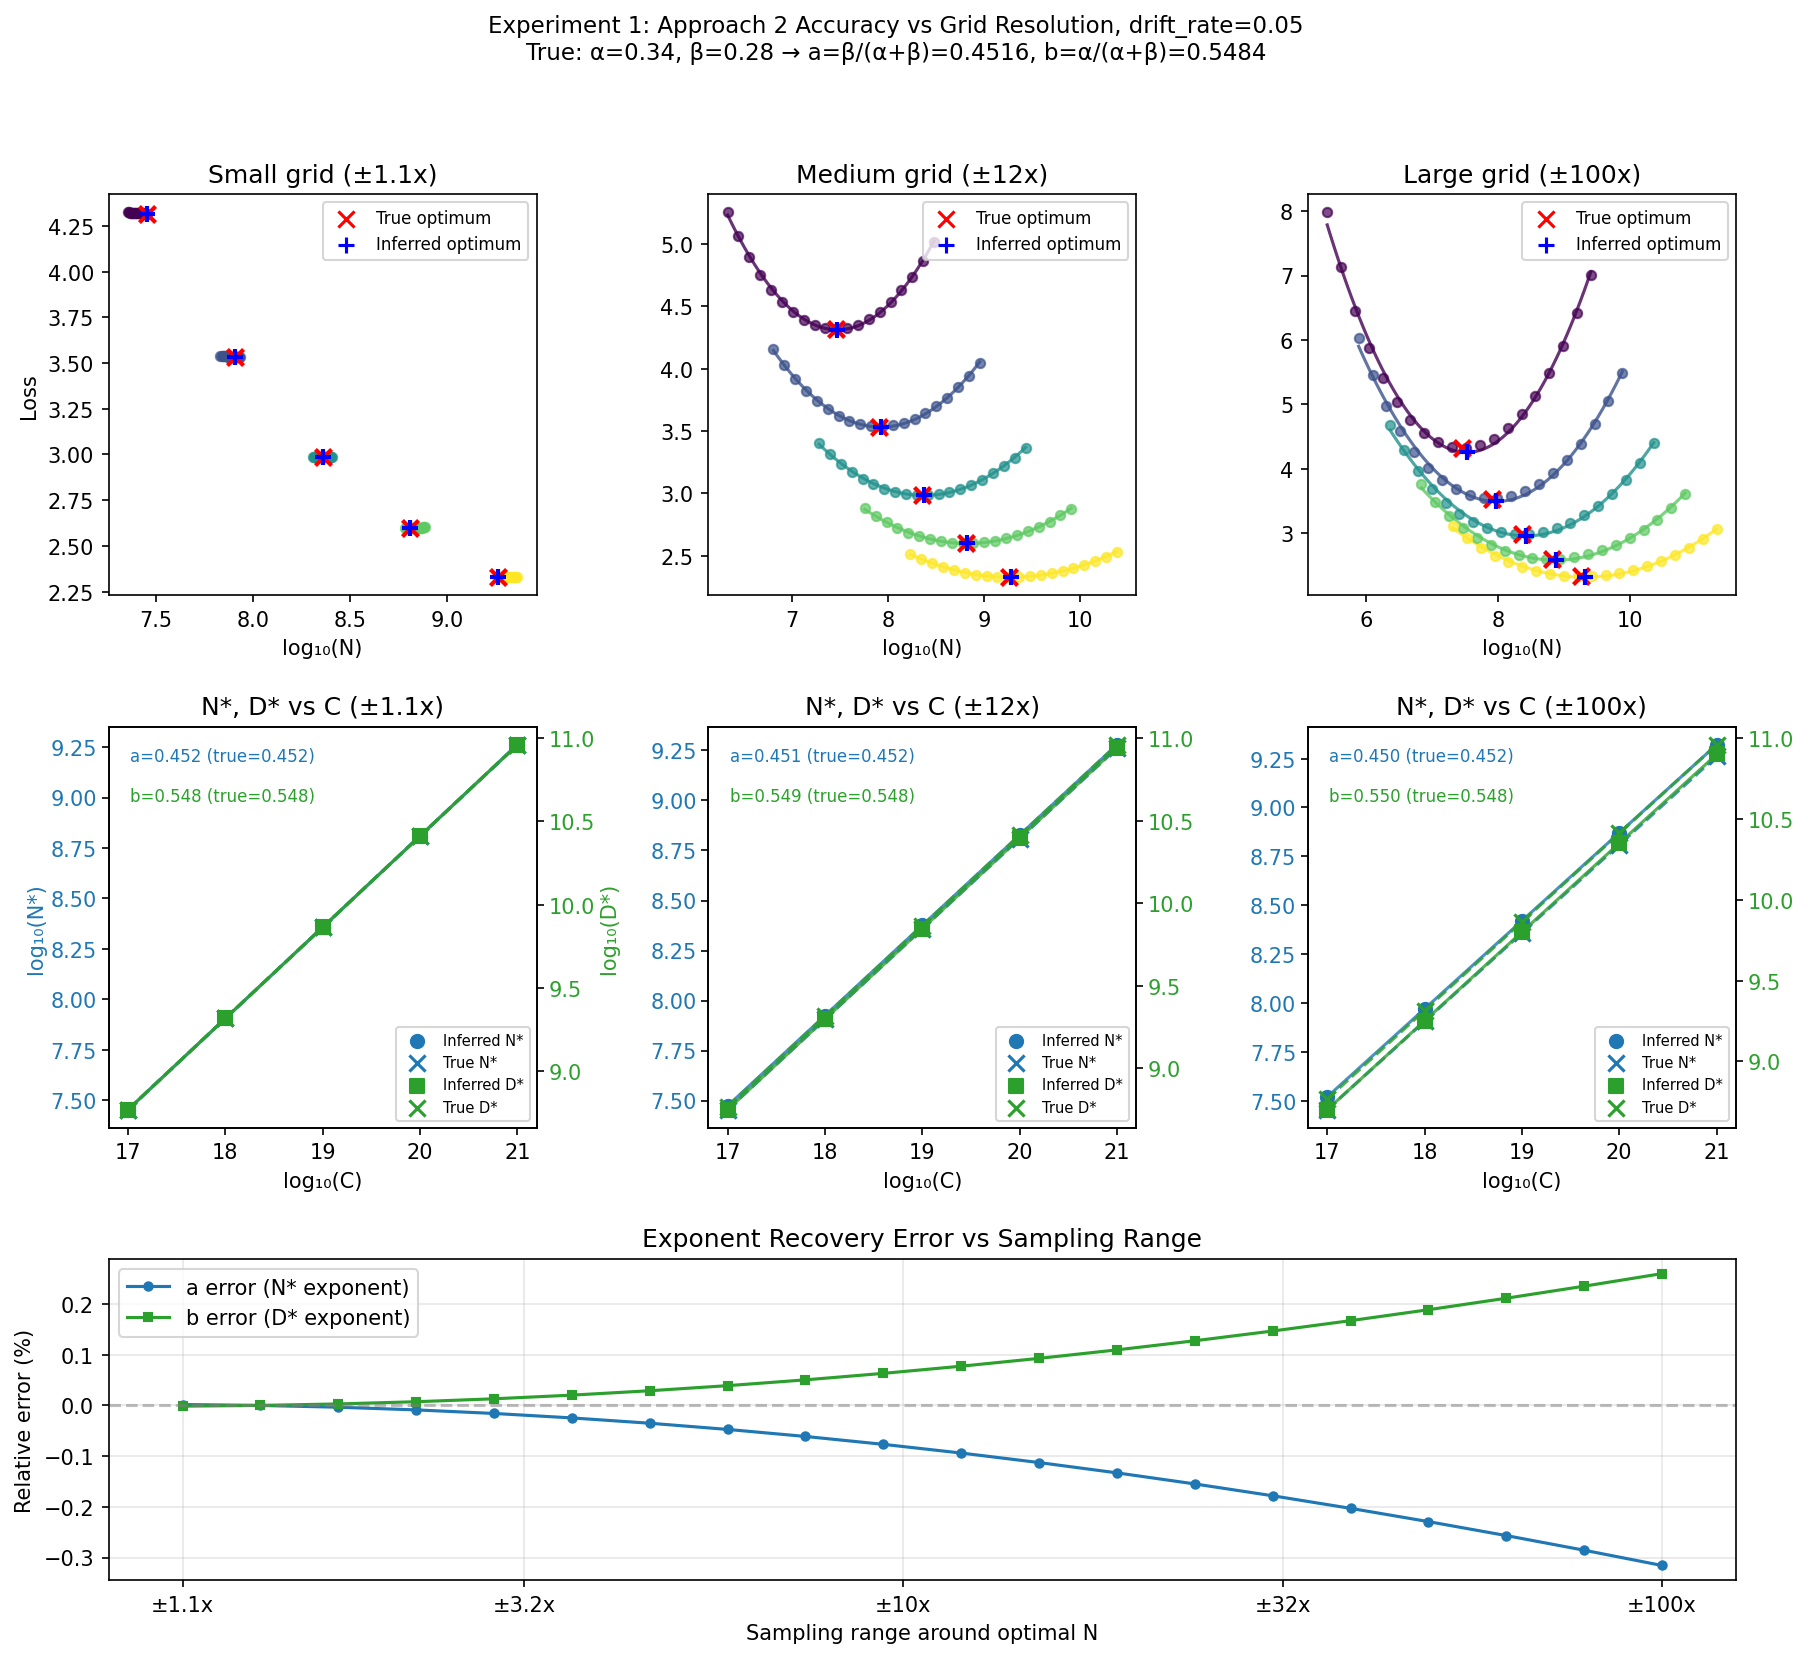
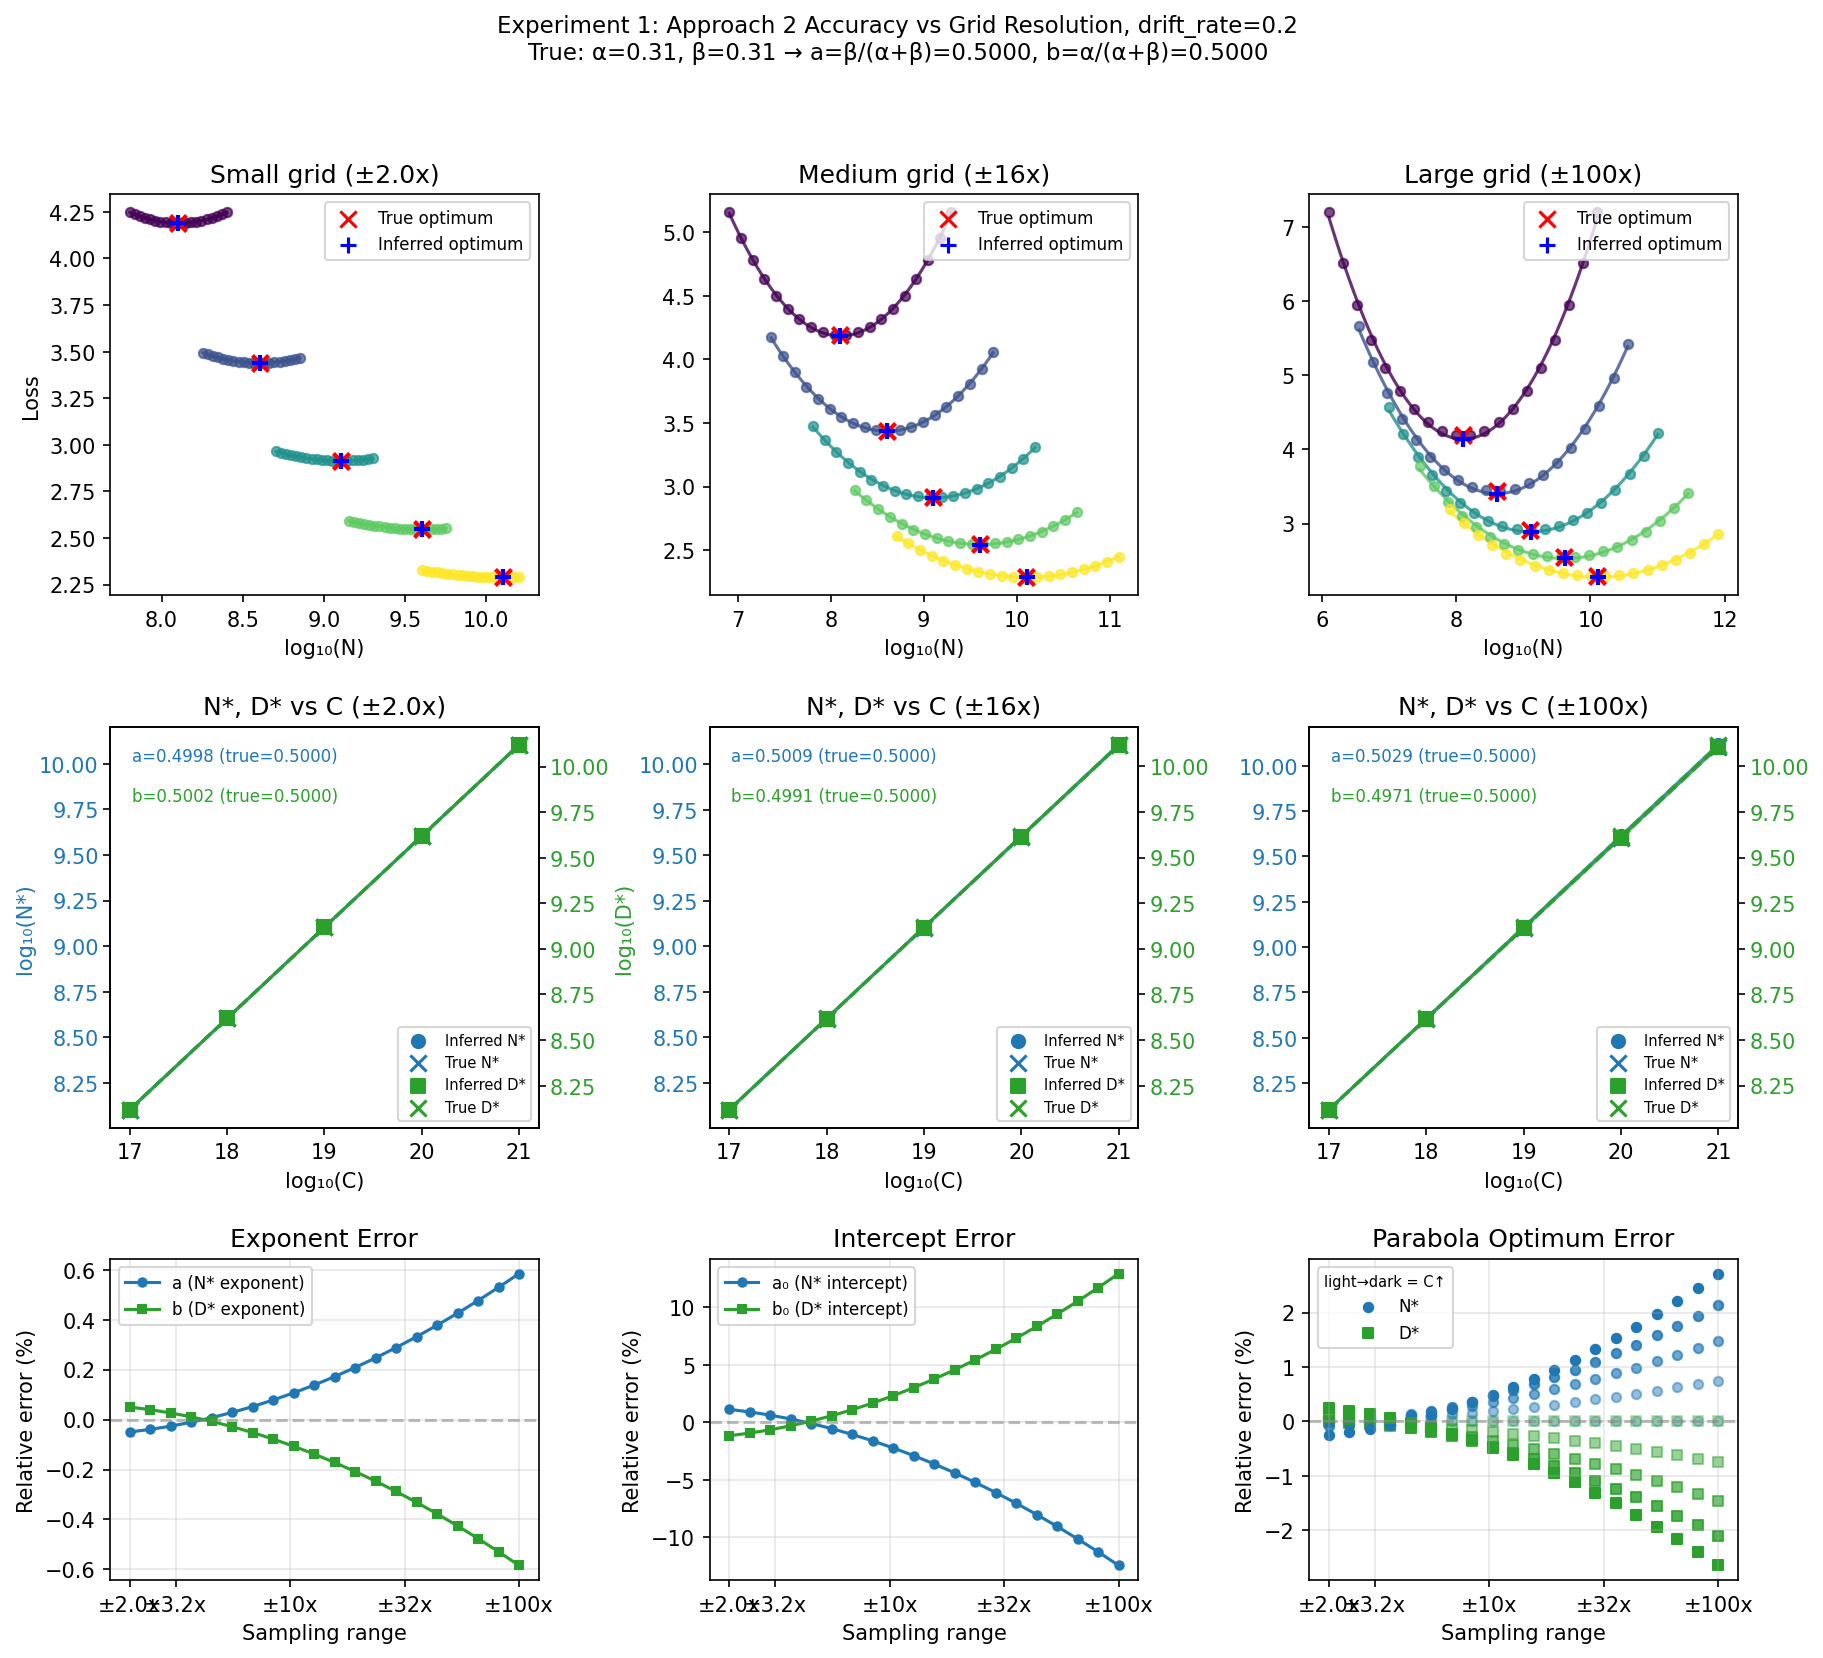
feat(exp1): expand error analysis to three-panel visualization
Update Experiment 1's error analysis row to show three subplots:
- Exponent error: relative error in recovered a and b
- Intercept error: relative error in power-law intercepts a₀ and b₀
- Optimum error: per-budget relative error in parabola-inferred N* and D*

This provides more detailed insight into where Approach 2 fitting
errors arise - whether in scaling exponents, intercepts, or individual
parabola vertex locations.

diff --git a/src/scaling_law_analysis/experiments/exp1_empirical_error.py b/src/scaling_law_analysis/experiments/exp1_empirical_error.py
@@ -13,6 +13,7 @@ from pathlib import Path
 
 from scaling_law_analysis import config
 from scaling_law_analysis.chinchilla import (
+    Approach2Result,
     compute_center_offset,
     isoflop_sample,
     fit_approach2,
@@ -31,6 +32,23 @@ def log_range_to_label(log_range: float) -> str:
     else:
         return f"±{factor:.1f}x"
 
+def compute_true_intercepts(loss) -> tuple[float, float]:
+    """Compute true power-law intercepts for N* and D* vs C.
+    
+    The true power laws are:
+        N* = G · (C/6)^a  →  log10(N*) = a·log10(C) + (log10(G) - a·log10(6))
+        D* = (1/G) · (C/6)^b  →  log10(D*) = b·log10(C) + (-log10(G) - b·log10(6))
+    
+    Returns:
+        Tuple of (true_a_intercept, true_b_intercept) in log10 space
+    """
+    log_G = np.log10(loss.G)
+    log_6 = np.log10(6)
+    true_a_intercept = log_G - loss.a * log_6
+    true_b_intercept = -log_G - loss.b * log_6
+    return true_a_intercept, true_b_intercept
+
+
 def run_experiment(
     sim_config: SimulationConfig,
     compute_budgets: np.ndarray,
@@ -46,12 +64,23 @@ def run_experiment(
         n_points: Number of points per IsoFLOP curve
 
     Returns:
-        Dictionary with results for a and b exponents
+        Dictionary with results for a and b exponents, intercepts, and per-budget optima
     """
     loss = sim_config.loss
     a_recovered = []
     b_recovered = []
+    a_intercept_recovered = []
+    b_intercept_recovered = []
     results = []
+    
+    # Per-budget optimum errors: shape (n_log_ranges, n_budgets)
+    N_opt_errors = []
+    D_opt_errors = []
+
+    # Compute true values
+    true_N_opts = np.array([loss.N_opt(C) for C in compute_budgets])
+    true_D_opts = np.array([loss.D_opt(C) for C in compute_budgets])
+    true_a_intercept, true_b_intercept = compute_true_intercepts(loss)
 
     for log_range in log_ranges:
         result = fit_approach2(
@@ -64,27 +93,49 @@ def run_experiment(
         )
         a_recovered.append(result.a)
         b_recovered.append(result.b)
+        a_intercept_recovered.append(result.a_intercept)
+        b_intercept_recovered.append(result.b_intercept)
         results.append(result)
+        
+        # Per-budget relative errors in N* and D*
+        N_opt_errors.append((result.N_opts - true_N_opts) / true_N_opts)
+        D_opt_errors.append((result.D_opts - true_D_opts) / true_D_opts)
 
     a_recovered = np.array(a_recovered)
     b_recovered = np.array(b_recovered)
+    a_intercept_recovered = np.array(a_intercept_recovered)
+    b_intercept_recovered = np.array(b_intercept_recovered)
+    N_opt_errors = np.array(N_opt_errors)  # shape: (n_log_ranges, n_budgets)
+    D_opt_errors = np.array(D_opt_errors)
 
     return {
         "config": sim_config,
+        "compute_budgets": compute_budgets,
         "log_ranges": log_ranges,
+        # Exponents
         "true_a": loss.a,
         "true_b": loss.b,
         "a_recovered": a_recovered,
         "b_recovered": b_recovered,
         "a_error": (a_recovered - loss.a) / loss.a,
         "b_error": (b_recovered - loss.b) / loss.b,
+        # Intercepts
+        "true_a_intercept": true_a_intercept,
+        "true_b_intercept": true_b_intercept,
+        "a_intercept_recovered": a_intercept_recovered,
+        "b_intercept_recovered": b_intercept_recovered,
+        "a_intercept_error": (a_intercept_recovered - true_a_intercept) / abs(true_a_intercept),
+        "b_intercept_error": (b_intercept_recovered - true_b_intercept) / abs(true_b_intercept),
+        # Per-budget optimum errors
+        "N_opt_errors": N_opt_errors,
+        "D_opt_errors": D_opt_errors,
         "results": results,
     }
 
 
 def plot_isoflop_fits(
     ax: plt.Axes,
-    result,
+    result: Approach2Result,
     compute_budgets: np.ndarray,
     log_range: float,
     sim_config: SimulationConfig,
@@ -168,7 +219,7 @@ def plot_isoflop_fits(
 
 def plot_power_law_fits(
     ax: plt.Axes,
-    result,
+    result: Approach2Result,
     compute_budgets: np.ndarray,
     sim_config: SimulationConfig,
     title: str = "",
@@ -262,11 +313,11 @@ def plot_power_law_fits(
     ax.legend(lines1 + lines2, labels1 + labels2, loc="lower right", fontsize=7)
 
 
-def plot_error_vs_grid_size(
+def plot_exponent_error(
     ax: plt.Axes,
     experiment_results: dict,
 ):
-    """Plot exponent recovery error vs grid step size.
+    """Plot exponent recovery error vs sampling range.
 
     Args:
         ax: Matplotlib axes to plot on
@@ -276,15 +327,14 @@ def plot_error_vs_grid_size(
     a_error = experiment_results["a_error"] * 100  # Convert to %
     b_error = experiment_results["b_error"] * 100
 
-    ax.plot(log_ranges, a_error, "o-", label="a error (N* exponent)", color="C0", markersize=4)
-    ax.plot(log_ranges, b_error, "s-", label="b error (D* exponent)", color="C2", markersize=4)
+    ax.plot(log_ranges, a_error, "o-", label="a (N* exponent)", color="C0", markersize=4)
+    ax.plot(log_ranges, b_error, "s-", label="b (D* exponent)", color="C2", markersize=4)
 
     ax.axhline(0, color="gray", linestyle="--", alpha=0.5)
     
-    # Primary x-axis: log_range values
-    ax.set_xlabel("Sampling range around optimal N")
+    ax.set_xlabel("Sampling range")
     ax.set_ylabel("Relative error (%)")
-    ax.set_title("Exponent Recovery Error vs Sampling Range")
+    ax.set_title("Exponent Error")
     
     # Add secondary x-axis labels showing intuitive range
     tick_positions = [0.3, 0.5, 1.0, 1.5, 2.0]
@@ -292,7 +342,98 @@ def plot_error_vs_grid_size(
     ax.set_xticks(tick_positions)
     ax.set_xticklabels(tick_labels)
     
-    ax.legend()
+    ax.legend(fontsize=8)
+    ax.grid(True, alpha=0.3)
+
+
+def plot_intercept_error(
+    ax: plt.Axes,
+    experiment_results: dict,
+):
+    """Plot intercept recovery error vs sampling range.
+
+    Args:
+        ax: Matplotlib axes to plot on
+        experiment_results: Results from run_experiment
+    """
+    log_ranges = experiment_results["log_ranges"]
+    a_intercept_error = experiment_results["a_intercept_error"] * 100  # Convert to %
+    b_intercept_error = experiment_results["b_intercept_error"] * 100
+
+    ax.plot(log_ranges, a_intercept_error, "o-", label="a₀ (N* intercept)", color="C0", markersize=4)
+    ax.plot(log_ranges, b_intercept_error, "s-", label="b₀ (D* intercept)", color="C2", markersize=4)
+
+    ax.axhline(0, color="gray", linestyle="--", alpha=0.5)
+    
+    ax.set_xlabel("Sampling range")
+    ax.set_ylabel("Relative error (%)")
+    ax.set_title("Intercept Error")
+    
+    tick_positions = [0.3, 0.5, 1.0, 1.5, 2.0]
+    tick_labels = [log_range_to_label(lr) for lr in tick_positions]
+    ax.set_xticks(tick_positions)
+    ax.set_xticklabels(tick_labels)
+    
+    ax.legend(fontsize=8)
+    ax.grid(True, alpha=0.3)
+
+
+def plot_optimum_error(
+    ax: plt.Axes,
+    experiment_results: dict,
+):
+    """Plot per-budget optimum error as jitter plot vs sampling range.
+
+    Shows relative error in parabola-inferred N* and D* compared to true values,
+    with points for each compute budget. Opacity distinguishes compute budgets.
+
+    Args:
+        ax: Matplotlib axes to plot on
+        experiment_results: Results from run_experiment
+    """
+    log_ranges = experiment_results["log_ranges"]
+    compute_budgets = experiment_results["compute_budgets"]
+    N_opt_errors = experiment_results["N_opt_errors"] * 100  # (n_log_ranges, n_budgets)
+    D_opt_errors = experiment_results["D_opt_errors"] * 100
+    
+    n_budgets = len(compute_budgets)
+    
+    # Opacity increases with compute budget (darker = higher compute)
+    alphas = np.linspace(0.3, 1.0, n_budgets)
+    
+    for i, C in enumerate(compute_budgets):
+        ax.scatter(
+            log_ranges,
+            N_opt_errors[:, i],
+            c="C0",
+            alpha=alphas[i],
+            s=20,
+            marker="o",
+        )
+        ax.scatter(
+            log_ranges,
+            D_opt_errors[:, i],
+            c="C2",
+            alpha=alphas[i],
+            s=20,
+            marker="s",
+        )
+
+    ax.axhline(0, color="gray", linestyle="--", alpha=0.5)
+    
+    ax.set_xlabel("Sampling range")
+    ax.set_ylabel("Relative error (%)")
+    ax.set_title("Parabola Optimum Error")
+    
+    tick_positions = [0.3, 0.5, 1.0, 1.5, 2.0]
+    tick_labels = [log_range_to_label(lr) for lr in tick_positions]
+    ax.set_xticks(tick_positions)
+    ax.set_xticklabels(tick_labels)
+    
+    # Custom legend showing N* and D* with opacity note
+    ax.scatter([], [], c="C0", marker="o", s=20, alpha=1.0, label="N*")
+    ax.scatter([], [], c="C2", marker="s", s=20, alpha=1.0, label="D*")
+    ax.legend(fontsize=8, loc="upper left", title="light→dark = C↑", title_fontsize=7)
     ax.grid(True, alpha=0.3)
 
 
@@ -305,7 +446,7 @@ def create_figure(
 
     Row 1: IsoFLOP curves with parabola fits for 3 grid sizes
     Row 2: Power-law fits (N* and D* vs compute) for same 3 grid sizes
-    Row 3: Error plot spanning all columns
+    Row 3: Three error analysis subplots (exponent, intercept, optimum)
 
     Args:
         experiment_results: Results from run_experiment
@@ -358,9 +499,15 @@ def create_figure(
             show_ylabel=(i == 0),
         )
 
-    # Row 3: Error plot (spans all columns)
-    ax_error = fig.add_subplot(gs[2, :])
-    plot_error_vs_grid_size(ax_error, experiment_results)
+    # Row 3: Three error analysis subplots
+    ax_exponent = fig.add_subplot(gs[2, 0])
+    plot_exponent_error(ax_exponent, experiment_results)
+    
+    ax_intercept = fig.add_subplot(gs[2, 1])
+    plot_intercept_error(ax_intercept, experiment_results)
+    
+    ax_optimum = fig.add_subplot(gs[2, 2])
+    plot_optimum_error(ax_optimum, experiment_results)
 
     bias_parts = []
     if sim_config.drift_rate != 0.0:

diff --git a/specs/project.md b/specs/project.md
@@ -49,7 +49,12 @@ Produce a single figure with three rows:
    - True N* and D* with connecting lines (dashed)
    - This reveals slope divergence between true and inferred optima
 
-3. **Error analysis panel**: Plot relative error in recovered exponents (a and b) as a function of sampling range. This should reveal whether error grows systematically with wider sampling.
+3. **Error analysis panel**: Three subplots showing relative error as a function of sampling range:
+   - **Exponent error**: Relative error in recovered scaling exponents a and b
+   - **Intercept error**: Relative error in power-law fit intercepts a₀ and b₀ (from N* = a₀·C^a and D* = b₀·C^b)
+   - **Optimum error**: Relative error in parabola-inferred N* and D* compared to true optimal values, shown per compute budget (not aggregated)
+   
+   This reveals whether error grows systematically with wider sampling and which quantities are most sensitive.
 
 
 ### Experiment 2: Exponent Imbalance Sensitivity
